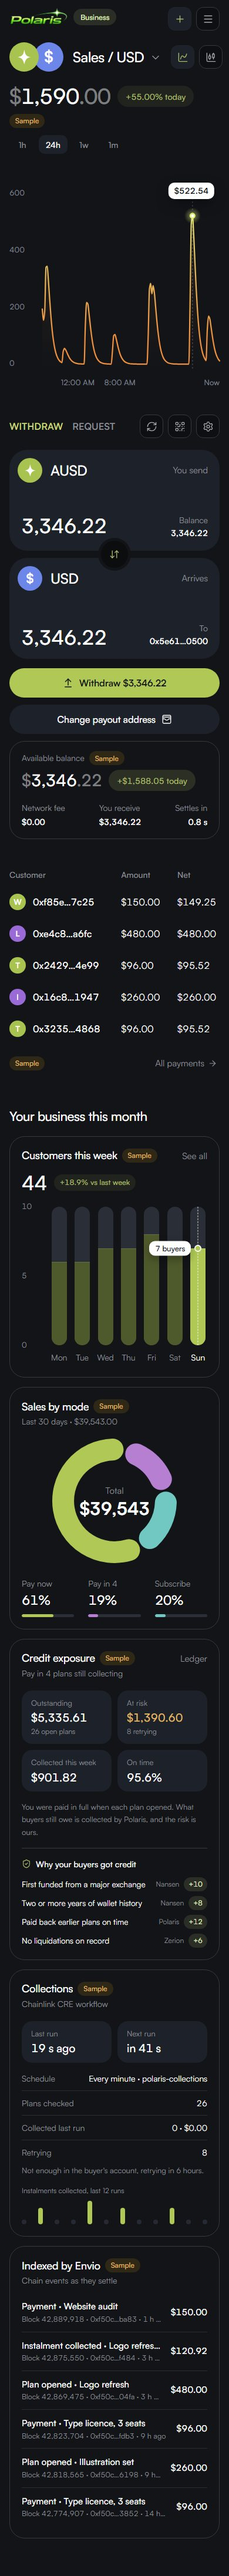
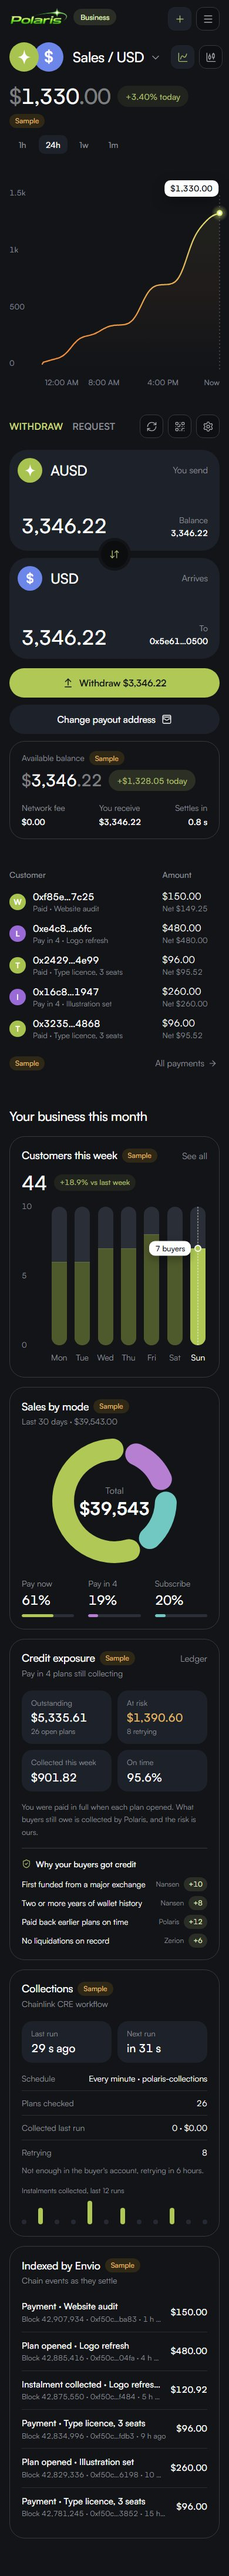
README: the Pay in 4 flow end to end, and the merchant screens after the chart fix

diff --git a/README.md b/README.md
@@ -278,6 +278,17 @@ What each sponsor asks for, where this repository meets it, and how to check.
 
 ## Screenshots
 
+### Pay in 4, end to end
+
+Captured from a `pnpm demo:e2e` run against `pnpm demo:local`. A buyer at the
+Halcyon demo shop picks Pay in 4, and the Polaris checkout opens in a pop-up.
+The CRE underwriting workflow raises their limit with plain-language reasons,
+and they confirm. The shop gets a paid order with four payments, and the
+merchant sees the sale and the plan. Locally, a dev signer stands in for Face
+ID; the badge says so.
+
+![Pay in 4 from the shop to the merchant dashboard](docs/screenshots/demo-pay-in-4-end-to-end.jpg)
+
 ### Polaris for Business (merchant web app)
 
 ![Reference beside the merchant Overview](docs/screenshots/merchant-web-vs-reference.jpg)
